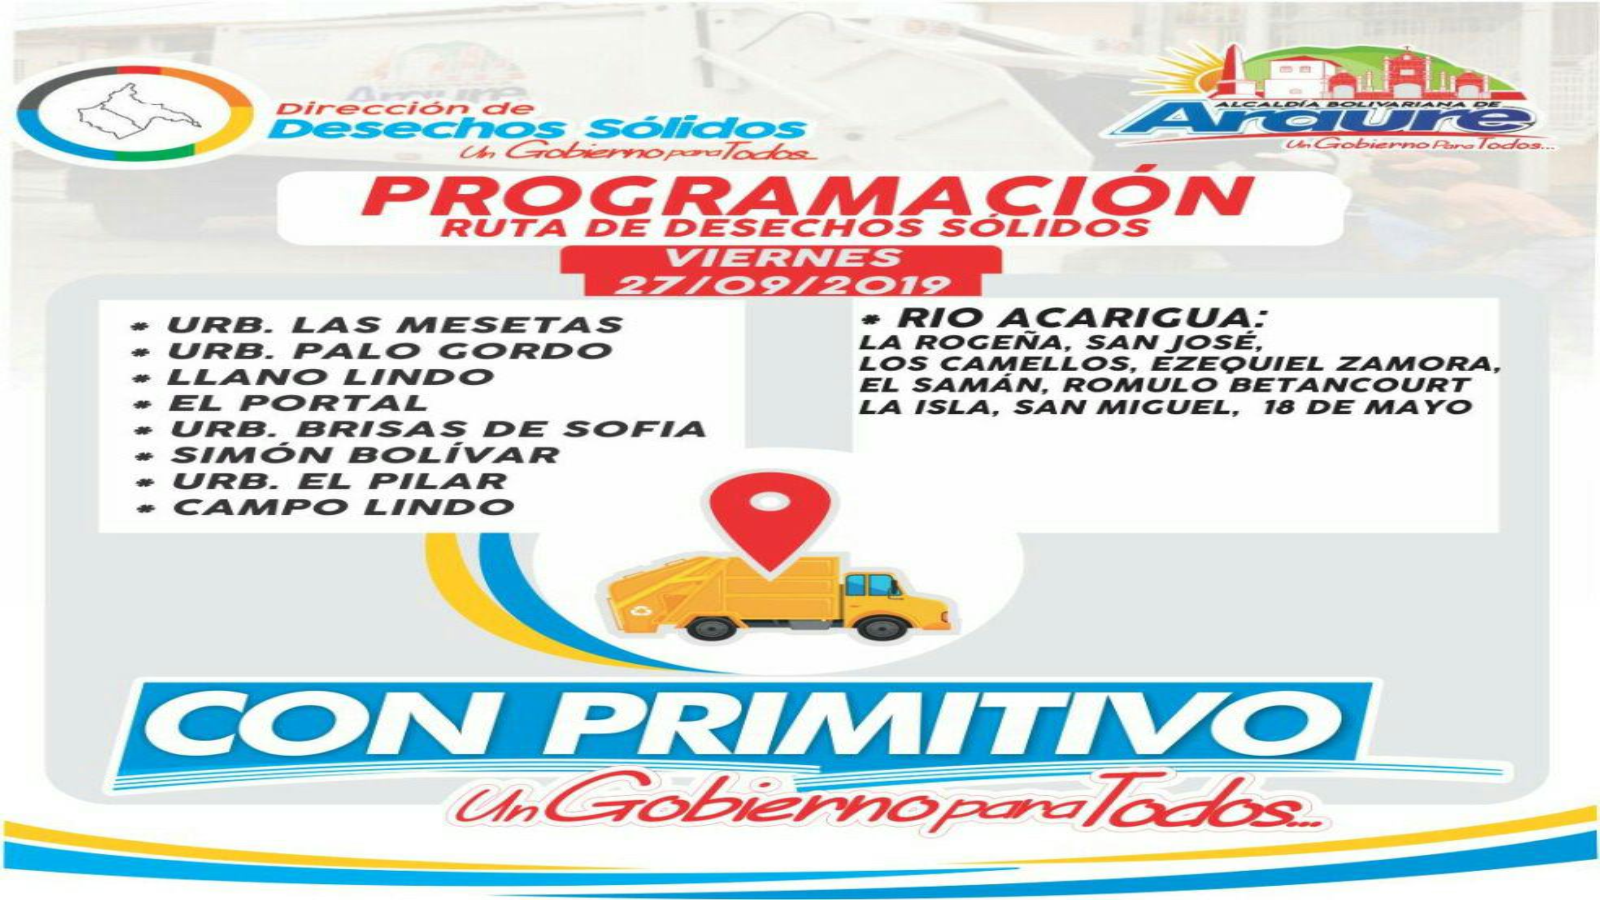
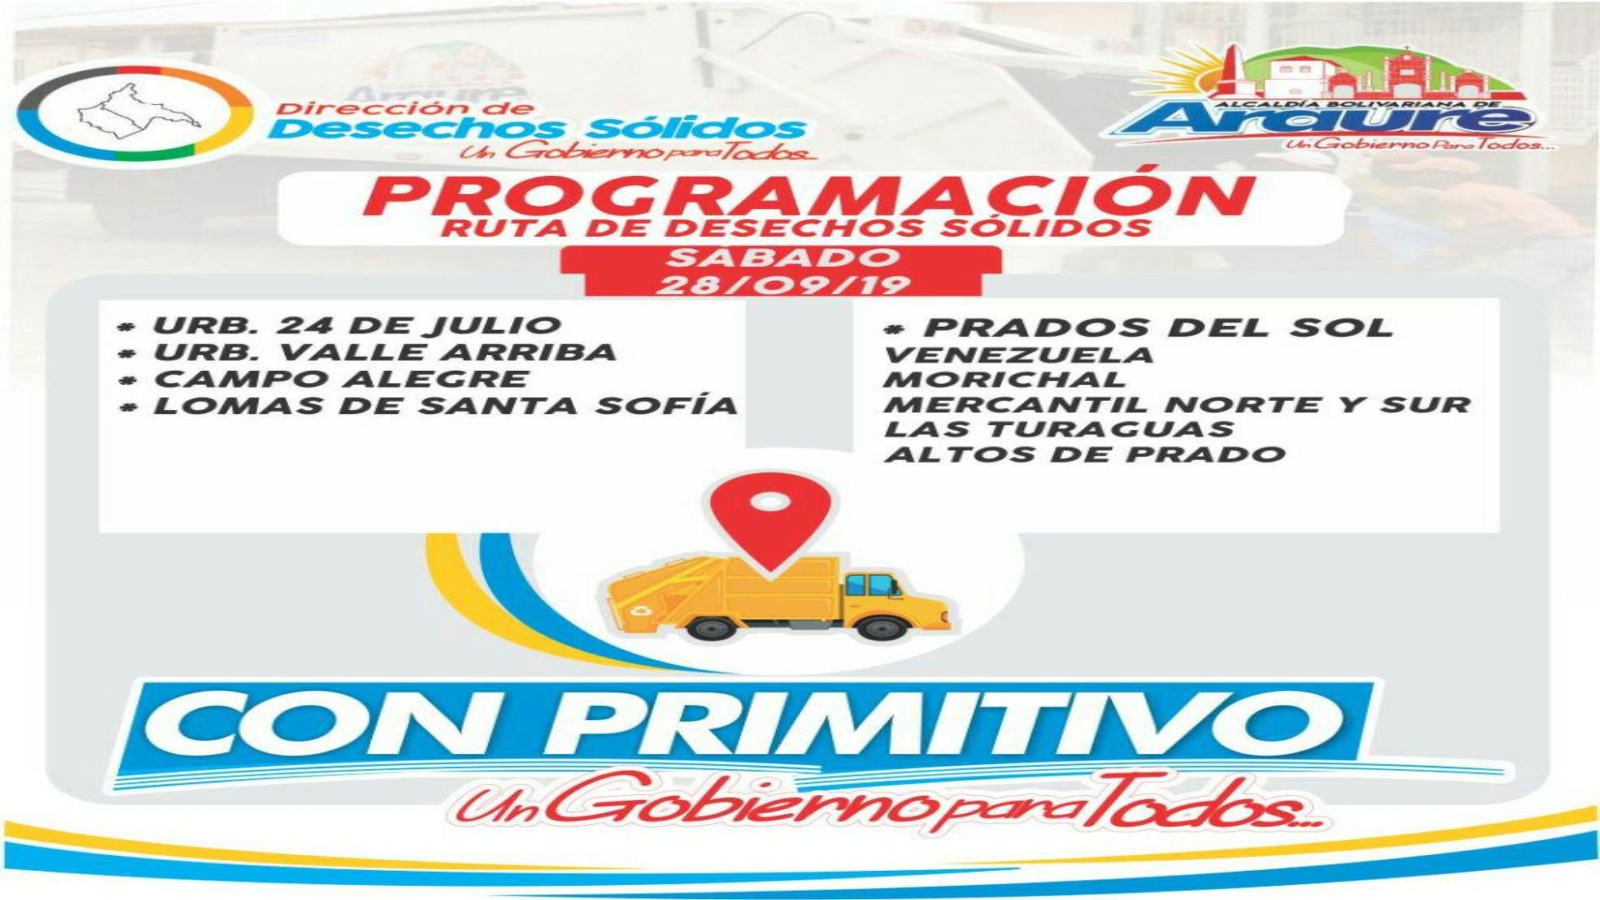
aviso del aseo y aviso del dia del contador quitado

diff --git a/html/index.html b/html/index.html
@@ -258,11 +258,11 @@
                                 <div class="meta">
                                 </div>
                        </li>
-                         <li>    <!--     Slide 6-->
+                         <!-- <li>        Slide 6
                                <img src="./img/Avisos_importantes/2019/6.png">
                                     <div class="meta">
                                     </div>
-                         </li>
+                         </li> -->
                          <li>    <!--     Slide 7-->
                             <img src="./img/Avisos_importantes/2019/7.png">
                                  <div class="meta">
@@ -313,11 +313,11 @@
                                             <div class="meta">
                                             </div>
                                    </li>
-                                    <li>   <!--  Slide 6 -->
+                                   <!--  <li>    Slide 6 
                                         <img src="./img/Avisos_importantes/2019/6.png">
                                            <div class="meta">
                                            </div>
-                                    </li>
+                                    </li>-->
                                     <li>    <!--     Slide 7-->
                                         <img src="./img/Avisos_importantes/2019/7.png">
                                              <div class="meta">
